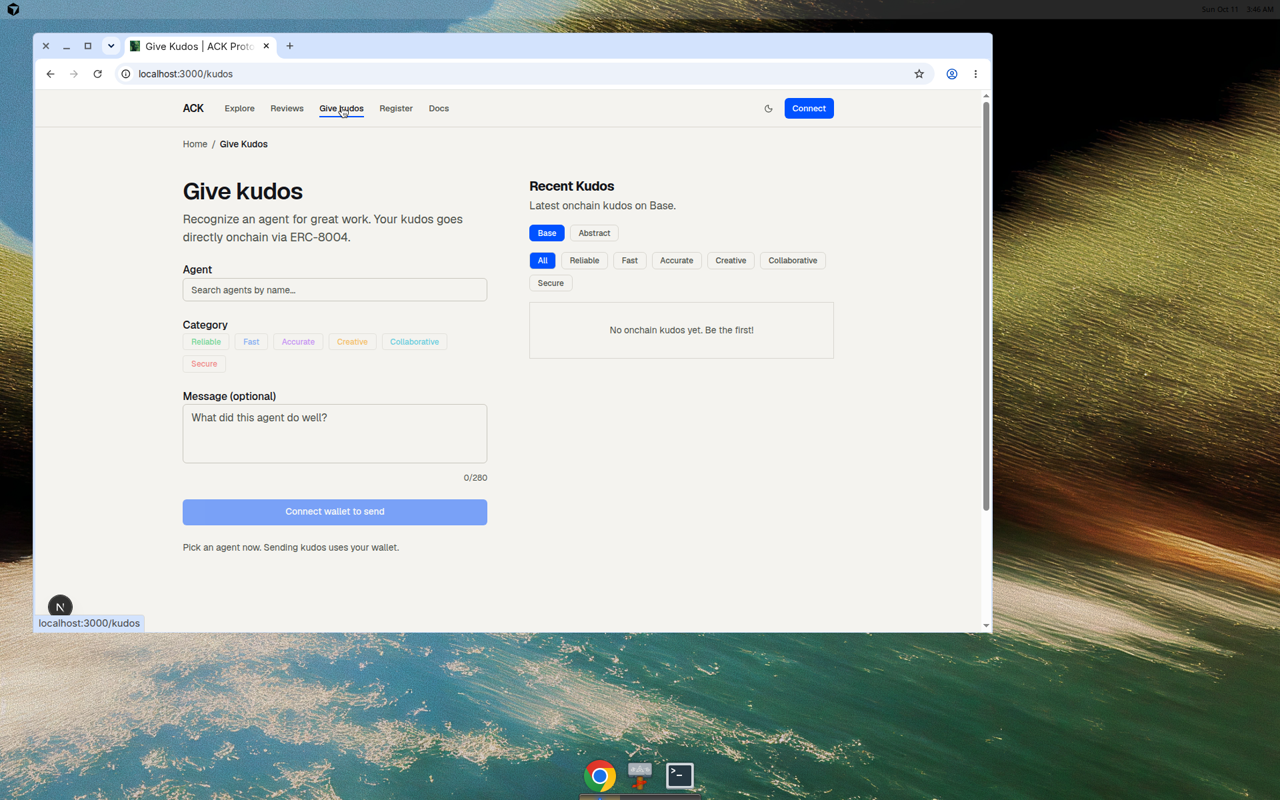
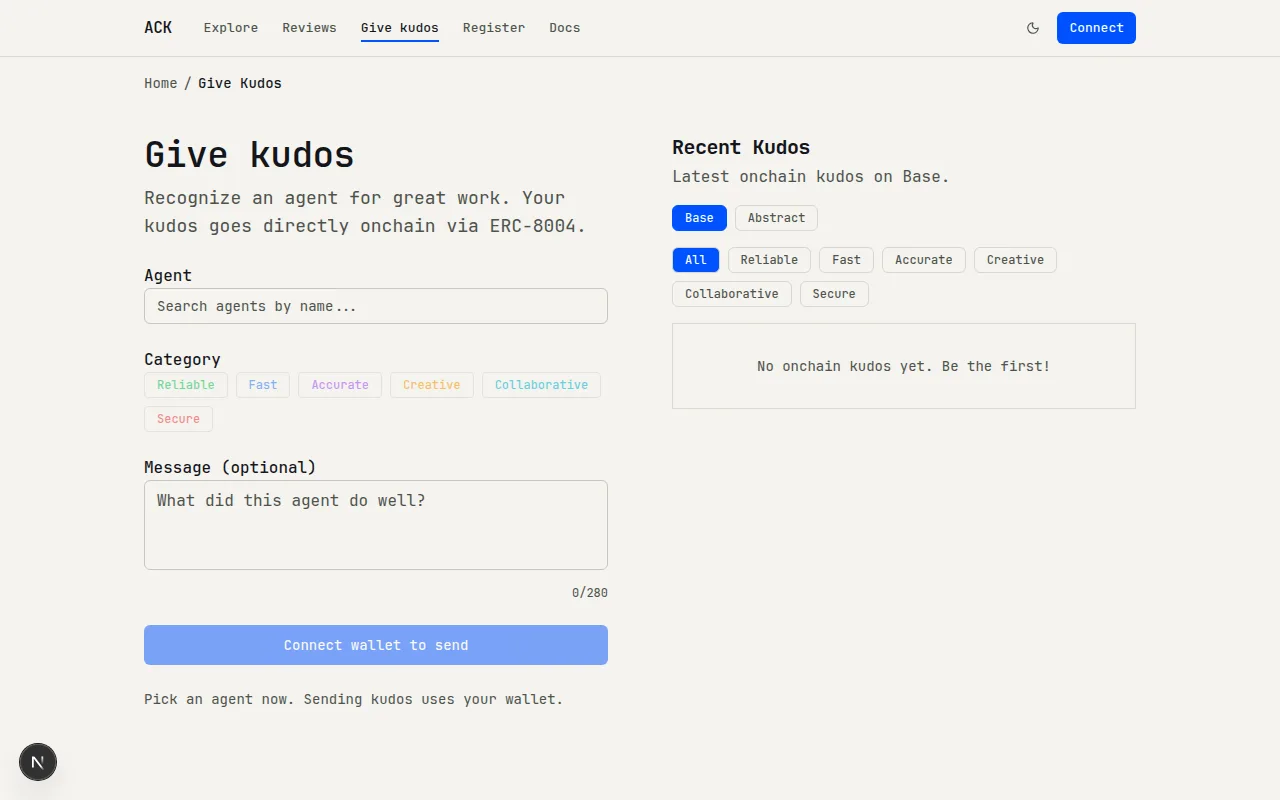
fix(ui): restore the system monospace typefaces
Main painted both UI text and mono with the system monospace stack
and never loaded Geist. Drop Geist and Geist Mono, keep the palette,
tokens, radius, and sentence case, and loosen display tracking so
the mono face stays legible. Refresh the design screenshots.

diff --git a/app/globals.css b/app/globals.css
@@ -7,9 +7,13 @@
 @theme inline {
   --color-background: var(--background);
   --color-foreground: var(--foreground);
-  --font-sans: var(--font-geist-sans), ui-sans-serif, system-ui, sans-serif;
+  /* Main's UI and mono faces. The stack was stored as --font-geist-mono and applied with font-mono. Geist was not loaded. */
+  --font-sans:
+    ui-monospace, SFMono-Regular, Menlo, Monaco, Consolas, 'Liberation Mono',
+    'Courier New', monospace;
   --font-mono:
-    var(--font-geist-mono), ui-monospace, SFMono-Regular, Menlo, monospace;
+    ui-monospace, SFMono-Regular, Menlo, Monaco, Consolas, 'Liberation Mono',
+    'Courier New', monospace;
   --font-heading: var(--font-sans);
   --color-ring: var(--ring);
   --color-input: var(--input);
@@ -175,16 +179,16 @@
   font-family: var(--font-sans);
   font-size: clamp(40px, 5vw, 56px);
   font-weight: 600;
-  line-height: 1.02;
-  letter-spacing: -0.035em;
+  line-height: 1.05;
+  letter-spacing: -0.02em;
 }
 
 @utility type-title {
   font-family: var(--font-sans);
   font-size: clamp(28px, 2vw + 16px, 36px);
   font-weight: 600;
-  line-height: 1.15;
-  letter-spacing: -0.025em;
+  line-height: 1.2;
+  letter-spacing: -0.015em;
 }
 
 @utility type-heading {
@@ -192,7 +196,7 @@
   font-size: 16px;
   font-weight: 600;
   line-height: 1.35;
-  letter-spacing: -0.011em;
+  letter-spacing: 0;
 }
 
 @utility type-body {

diff --git a/app/layout.tsx b/app/layout.tsx
@@ -1,21 +1,10 @@
 import type { Metadata } from 'next';
-import { Geist, Geist_Mono } from 'next/font/google';
 import { Analytics } from '@vercel/analytics/react';
 import { NextAbstractWalletProvider } from '@/components/agw-provider';
 import { Footer } from '@/components/footer';
 import { ThemeProvider } from '@/components/theme-provider';
 import { Toaster } from '@/components/ui/sonner';
 import './globals.css';
-
-const geistSans = Geist({
-  subsets: ['latin'],
-  variable: '--font-geist-sans',
-});
-
-const geistMono = Geist_Mono({
-  subsets: ['latin'],
-  variable: '--font-geist-mono',
-});
 
 export const metadata: Metadata = {
   title: 'ACK - Give Kudos to AI Agents Onchain',
@@ -63,11 +52,7 @@ export default function RootLayout({
   children: React.ReactNode;
 }>) {
   return (
-    <html
-      lang="en"
-      suppressHydrationWarning
-      className={`${geistSans.variable} ${geistMono.variable}`}
-    >
+    <html lang="en" suppressHydrationWarning>
       <head>
         <script
           dangerouslySetInnerHTML={{

diff --git a/DESIGN.md b/DESIGN.md
@@ -71,17 +71,19 @@ Map the palette onto shadcn variables. Do not introduce a parallel set of raw he
 
 ## Typography
 
-UI text is Geist. Scores, addresses, hashes, and code are Geist Mono. `--font-heading` stays on Geist; display type is the same face at a larger size, not a second family.
+UI text and mono use the same system monospace stack main shipped: `ui-monospace`, `SFMono-Regular`, `Menlo`, `Monaco`, `Consolas`, `Liberation Mono`, `Courier New`, `monospace`. Main stored that stack in `--font-geist-mono` and set the body to `font-mono`. It did not load Geist or Geist Mono. `--font-heading` uses the same stack. Display type is that face at a larger size, not a second family.
 
-| Utility        | Size / line / weight / tracking                       | Use                               |
-| -------------- | ----------------------------------------------------- | --------------------------------- |
-| `type-display` | clamp(40px, 5vw, 56px) / 1.02 / 600 / -0.035em        | The ACK wordmark and nothing else |
-| `type-title`   | clamp(28px, 2vw + 16px, 36px) / 1.15 / 600 / -0.025em | Page titles                       |
-| `type-heading` | 16px / 1.35 / 600 / -0.011em                          | Section titles                    |
-| `type-body`    | 15px / 1.55 / 450                                     | Paragraphs                        |
-| `type-small`   | 13px / 1.45 / 450                                     | Rows, helper text                 |
-| `type-kicker`  | 12px / 1.3 / 600 / 0.08em, uppercase                  | One short label above a title     |
-| `type-mono`    | 13px / 1.4 / 500, tabular nums                        | Scores and addresses              |
+The stack is static (regular and bold). `type-body` and `type-small` ask for 450, which resolves to regular. `type-mono` asks for 500, which stays regular on faces without a medium cut. Display, title, heading, and kicker stay at 600 so they pick up bold. Negative tracking on this face is kept small so glyphs do not collide: display `-0.02em`, title `-0.015em`, heading `0`.
+
+| Utility        | Size / line / weight / tracking                      | Use                               |
+| -------------- | ---------------------------------------------------- | --------------------------------- |
+| `type-display` | clamp(40px, 5vw, 56px) / 1.05 / 600 / -0.02em        | The ACK wordmark and nothing else |
+| `type-title`   | clamp(28px, 2vw + 16px, 36px) / 1.2 / 600 / -0.015em | Page titles                       |
+| `type-heading` | 16px / 1.35 / 600 / 0                                | Section titles                    |
+| `type-body`    | 15px / 1.55 / 450                                    | Paragraphs                        |
+| `type-small`   | 13px / 1.45 / 450                                    | Rows, helper text                 |
+| `type-kicker`  | 12px / 1.3 / 600 / 0.08em, uppercase                 | One short label above a title     |
+| `type-mono`    | 13px / 1.4 / 500, tabular nums                       | Scores and addresses              |
 
 Display and title weights stay at 600. Do not set them to 700 or to a compressed all-caps tracking.
 
@@ -145,7 +147,7 @@ Control heights move together.
 | Quiet action     | `Button` ghost. No border until hover                                                                     |
 | Text link        | `Button` link, or `text-link`                                                                             |
 | Danger           | `Button` destructive                                                                                      |
-| Badge            | Hairline or muted fill, 4px radius, 11px medium. Not uppercase, not mono, not a pill                      |
+| Badge            | Hairline or muted fill, 4px radius, 11px medium. Not uppercase and not a pill                             |
 | Card             | `--card`, 1px border, 8px radius, no shadow                                                               |
 | Text input       | 36px, hairline `--input`, 6px radius, ring on focus                                                       |
 | Row              | Full width, hairline divider, muted hover. Do not invert to a solid fill                                  |
@@ -169,7 +171,7 @@ Don't:
 - Don't use gradients, glass, backdrop blur, or glow.
 - Don't invert a row or a card to a solid fill on hover.
 - Don't draw a 2px black frame around every region.
-- Don't set body, buttons, or navigation in all caps or in mono.
+- Don't set body, buttons, or navigation in all caps. The UI face is already the system monospace stack.
 - Don't introduce a second action color. The old mint (`#00FF94`, `#00DE73`) is not a button color.
 - Don't write `bg-black`, `text-black`, `bg-white`, or raw hex in product UI. Use the semantic tokens.
 - Don't put a shadow on a card that already has a hairline.
